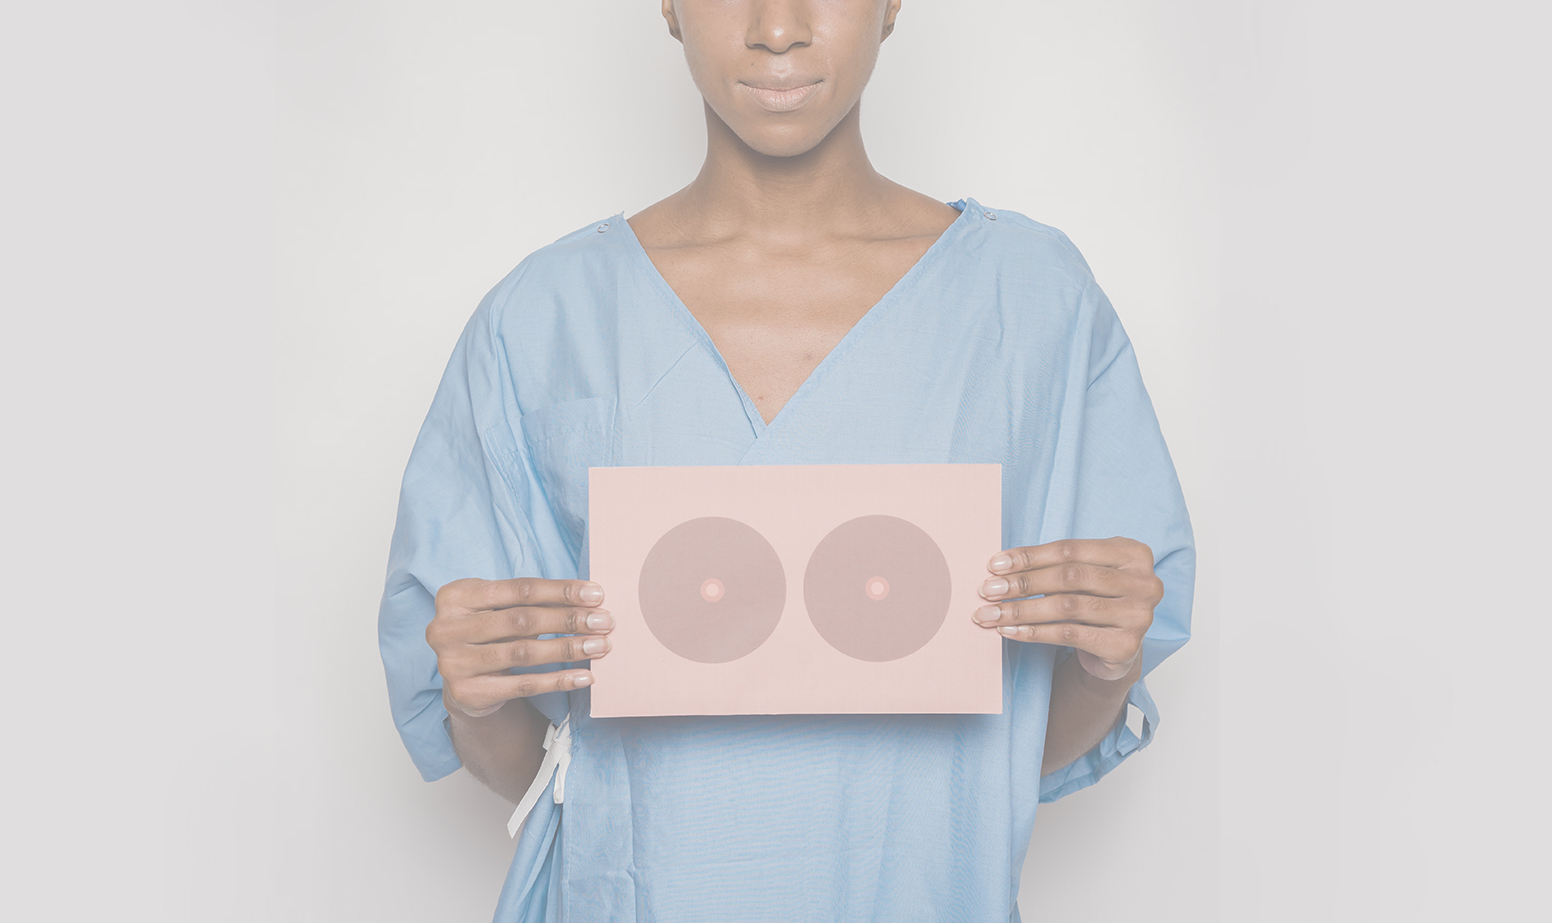
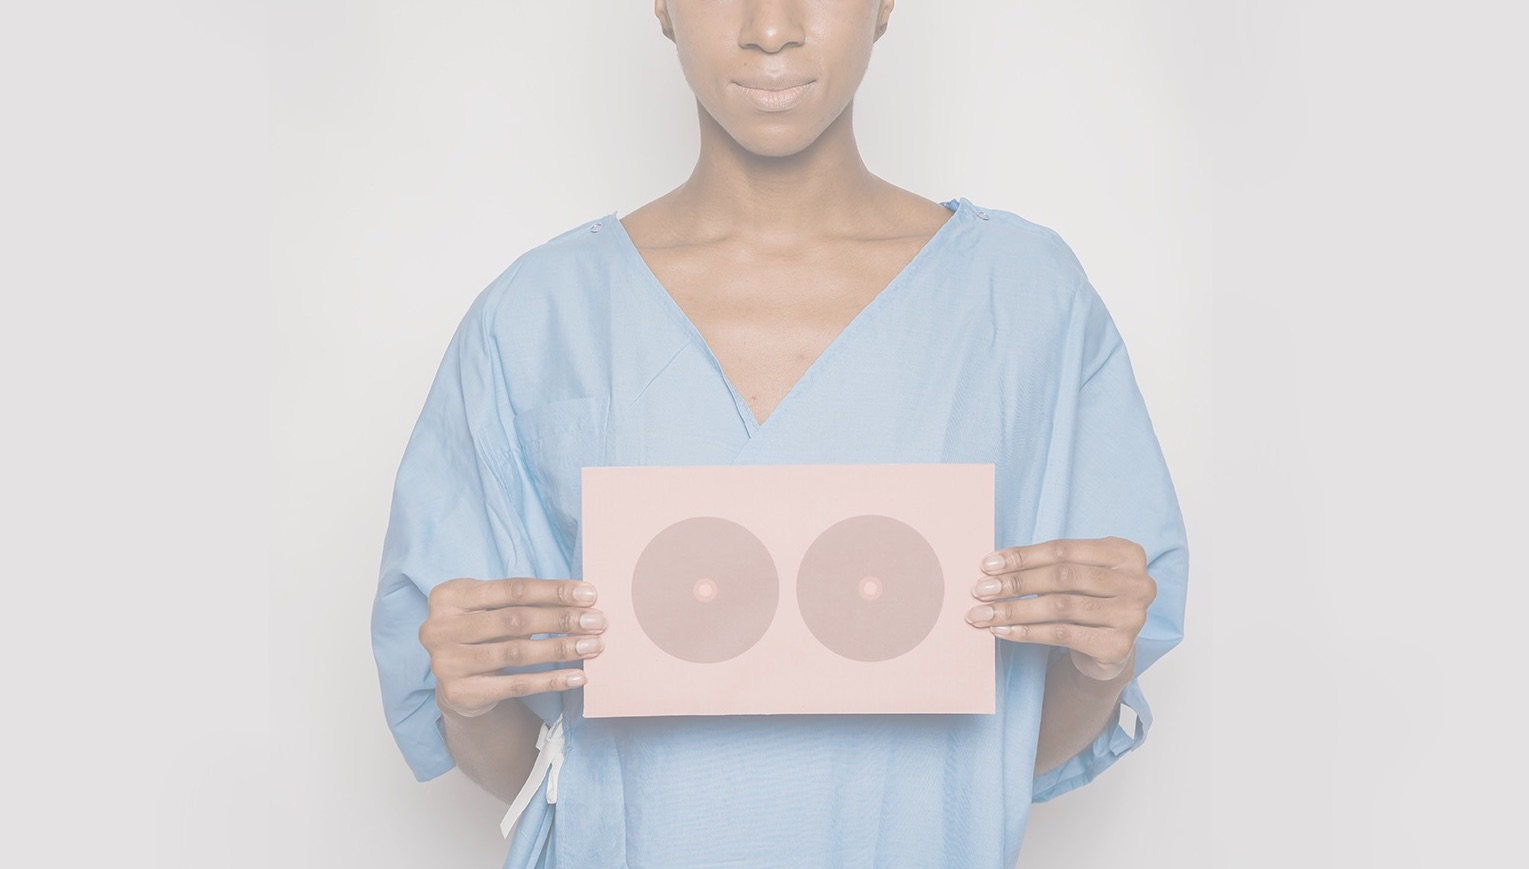
new size cover photo

diff --git a/src/pages/Calendar/style.css b/src/pages/Calendar/style.css
@@ -60,7 +60,7 @@ table {
 .calendar {
   text-align: center;
   background-color: #f9f9f9;
-  border-radius: 12px;
+  border-radius: 7px;
   padding-left: 2rem;
   padding-bottom: 2rem;
 }
@@ -168,6 +168,6 @@ table {
   margin-bottom: 3rem;
   text-align: left;
   background-color: #f9f9f9;
-  border-radius: 12px;
+  border-radius: 7px;
   padding: 2rem;
 }

diff --git a/src/components/Header/style.css b/src/components/Header/style.css
@@ -38,7 +38,7 @@ a {
   width: 5rem;
   height: 5rem;
   margin-left: 1rem;
-  background-image: url('./img/Blogo-transparent.png');
+  background-image: url('../../img/Blogo-transparent.png');
   background-size: contain;
   background-repeat: no-repeat;
 }

diff --git a/src/style.css b/src/style.css
@@ -32,7 +32,7 @@ body,
 }
 
 body {
-  background-image: url(./img/COVER-opacity.jpg);
+  background-image: url(./img/cover-opacity.jpg);
   background-size: cover;
   background-repeat: no-repeat;
   height: 100vh;
